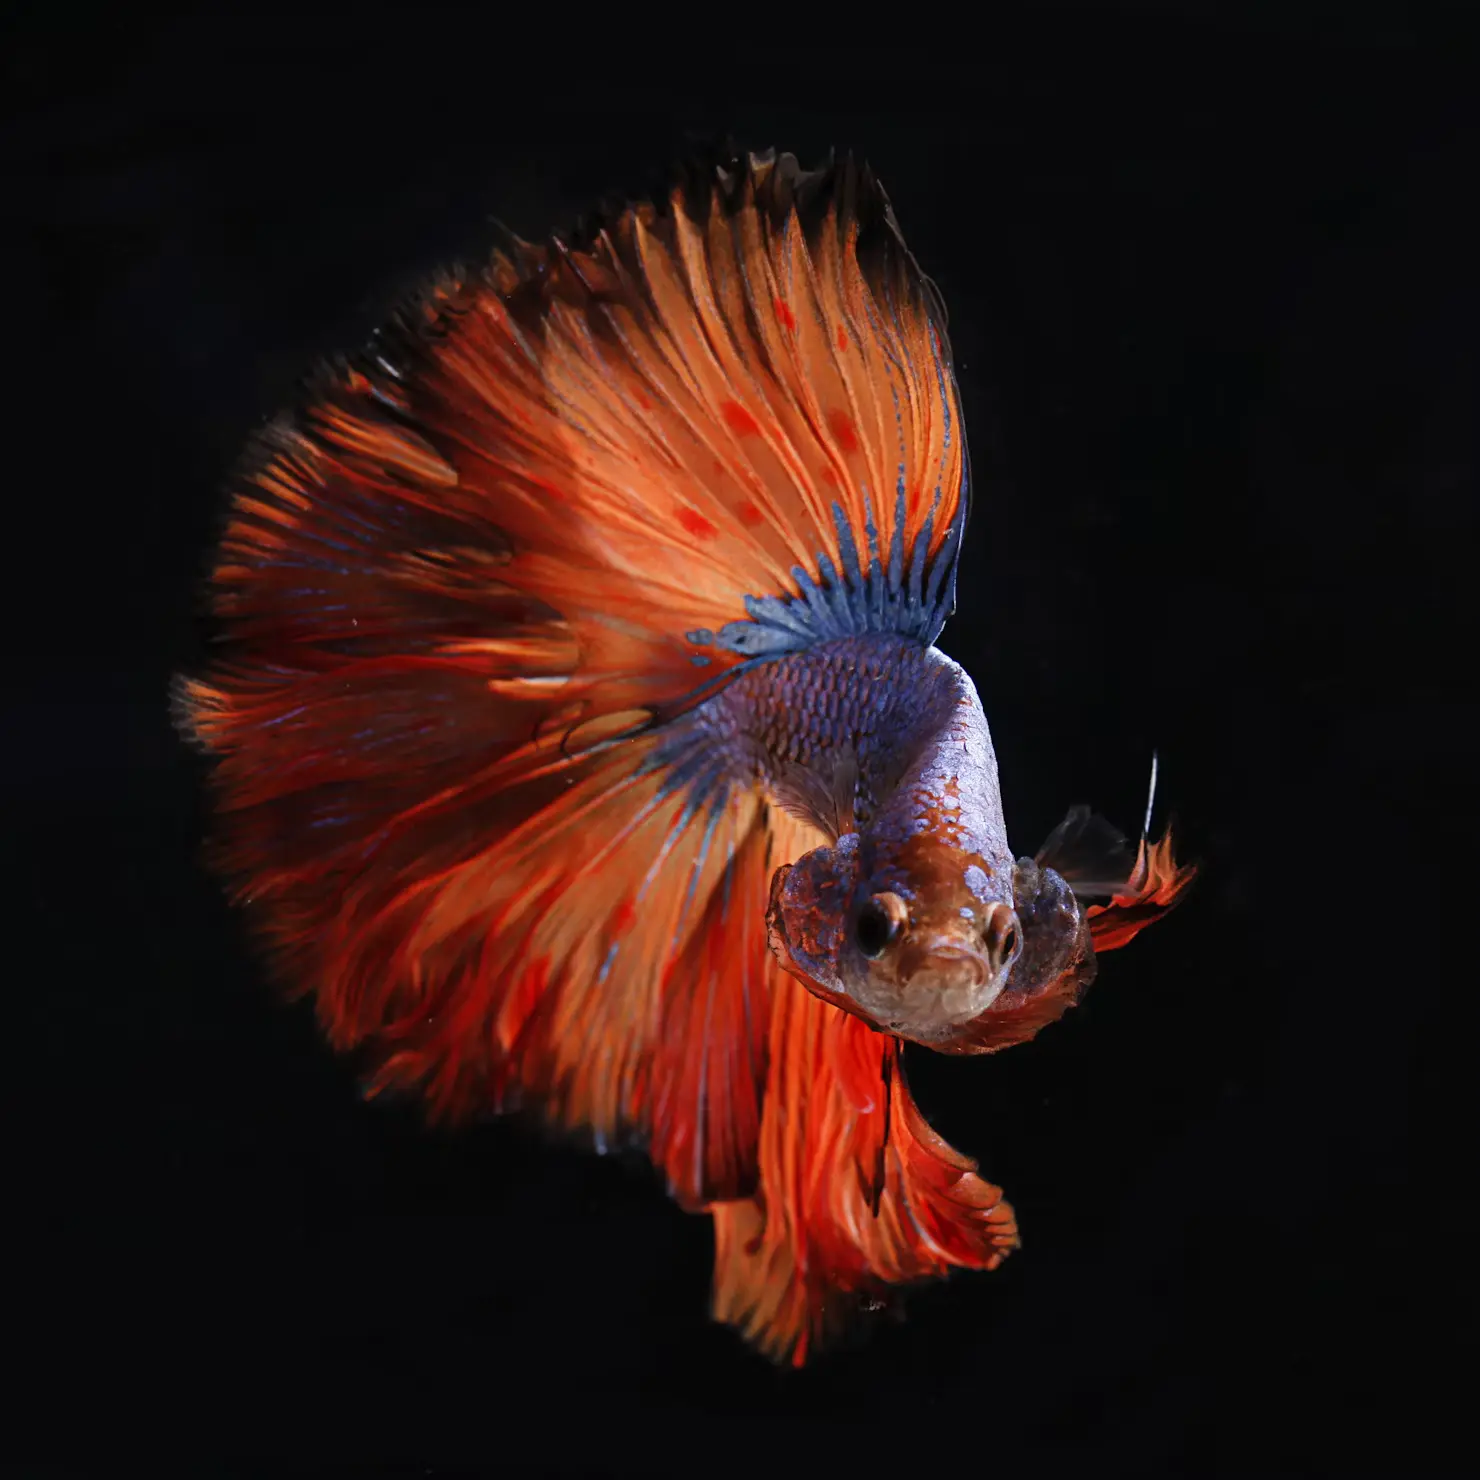
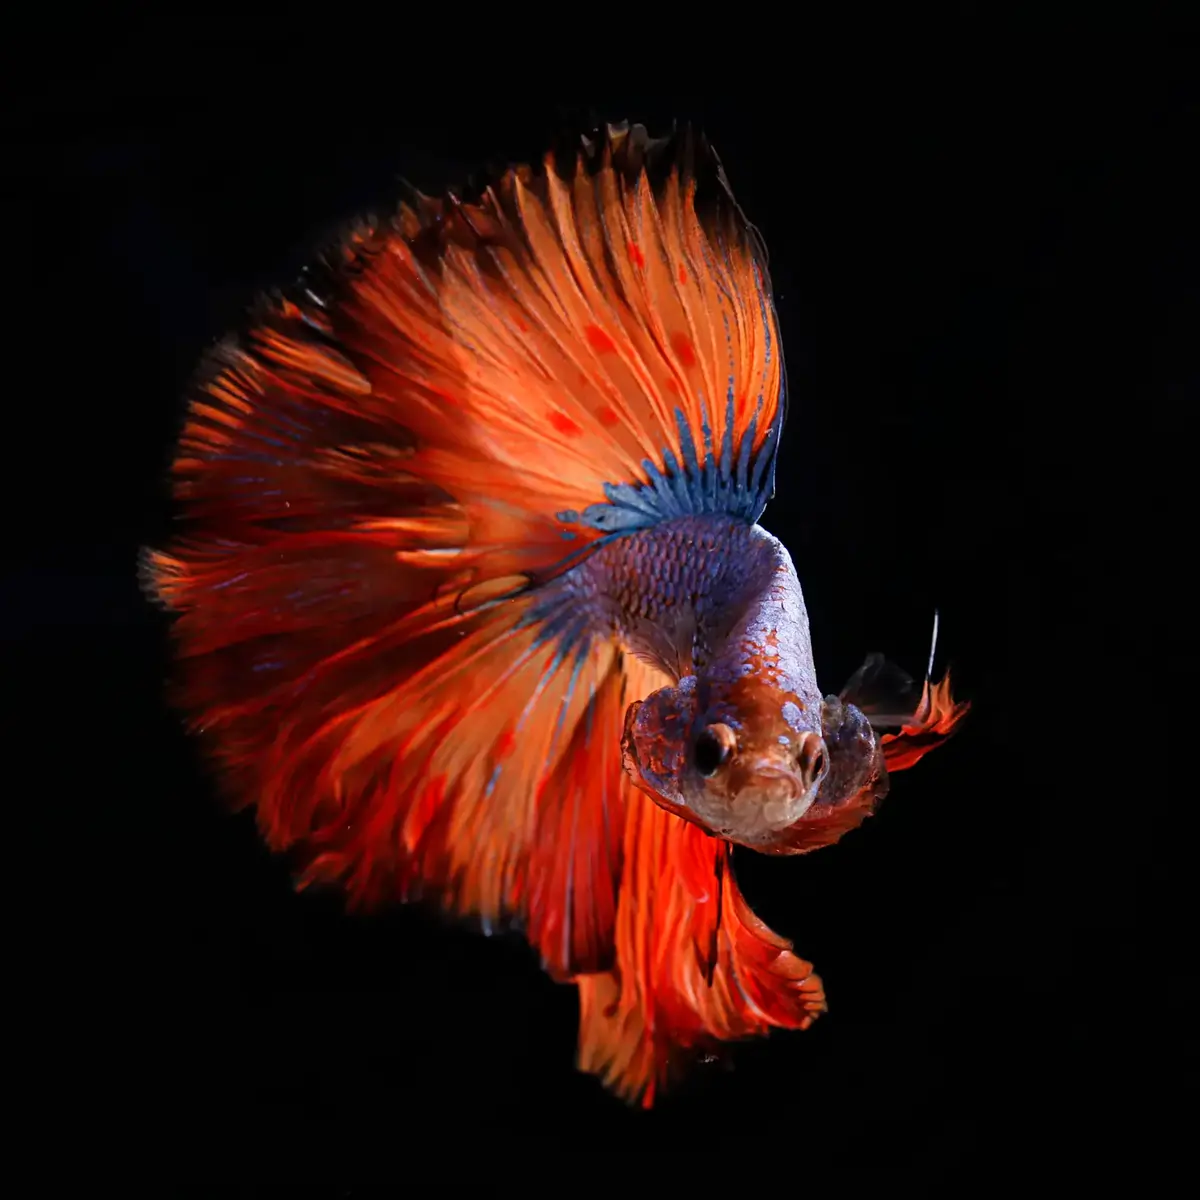
fix: further reduction in file size of images

diff --git a/contact.html b/contact.html
@@ -231,7 +231,7 @@
         <p>&copy;2024 Tamar Aquatics</p>
       </div>
     </footer> 
-    <script type="text/javascript">
+    <script>
       // Add class to business hours li if current day
       const date = new Date();
       const day = date.getDay();
